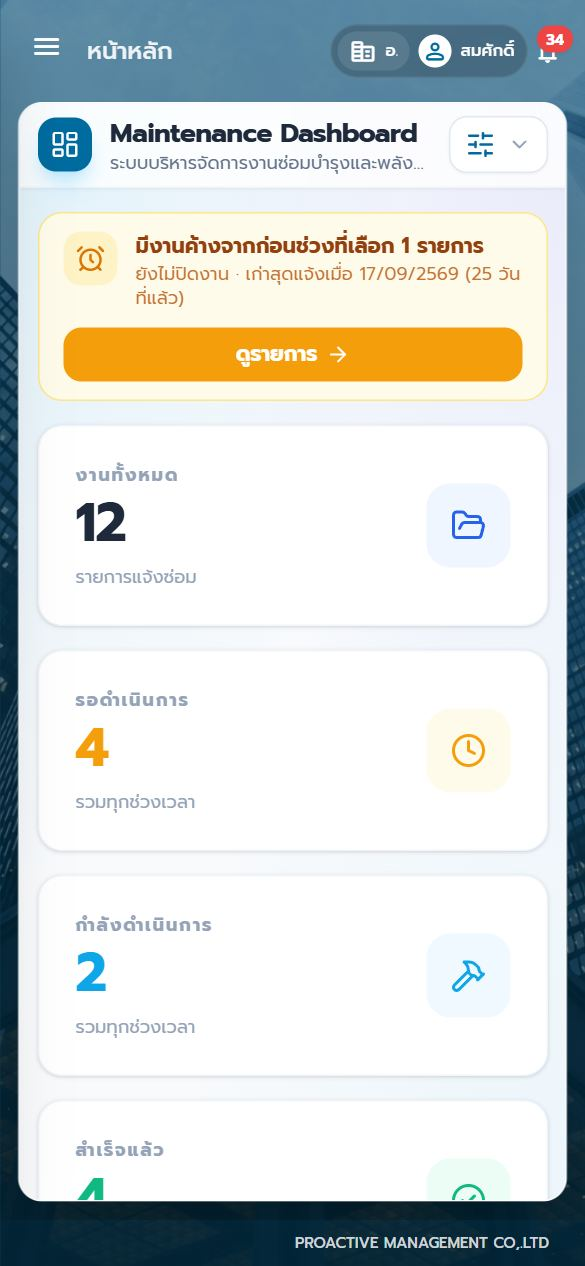
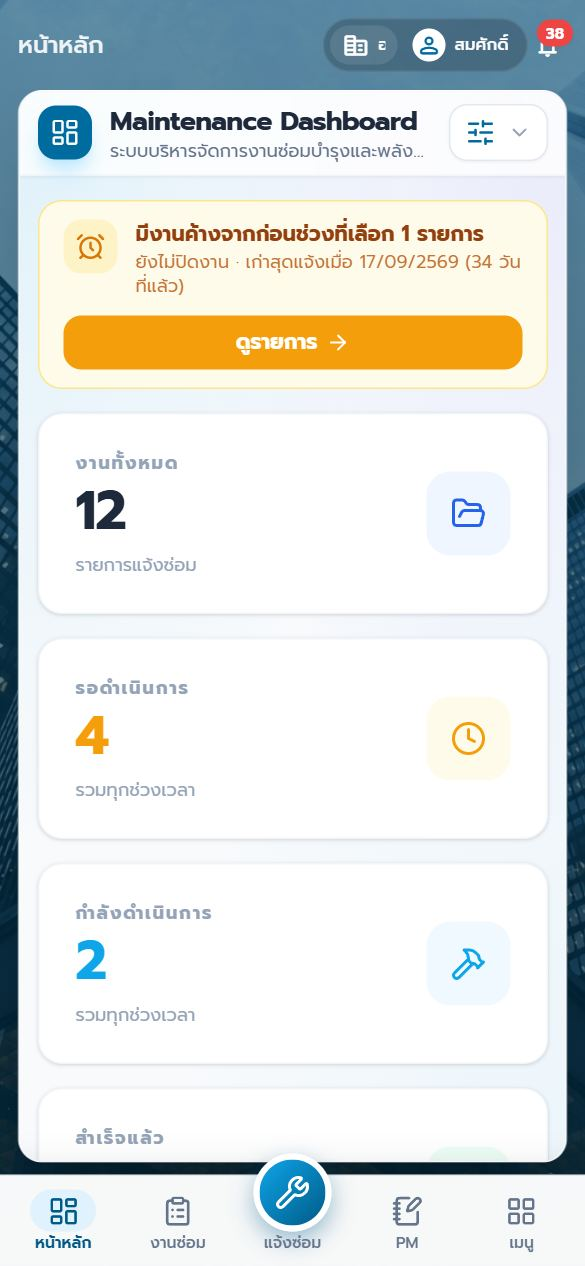
ปรับคู่มือรู้จักหน้าจอหลัก

diff --git a/tutorial.php b/tutorial.php
@@ -207,18 +207,22 @@ const MODULES = [
         intro: 'หน้าจอของระบบแบ่งเป็น 2 ส่วน คือ <b>เมนูด้านซ้าย</b> สำหรับเลือกงาน และ <b>พื้นที่ทำงานด้านขวา</b> ที่จะเปลี่ยนไปตามเมนูที่เลือก',
         parts: [{ shot: 'main', steps: [
             { m: 1, t: '<b>เมนูหลัก</b> — กดเพื่อเปิดหน้าการทำงาน เมนูที่เห็นจะขึ้นกับสิทธิ์ของแต่ละคน ถ้าไม่เห็นเมนูที่ต้องใช้ ให้ติดต่อผู้ดูแลระบบ (ทุกคนมีเมนู <b>ตั้งค่าการแสดงผล</b> และ <b>คู่มือการใช้งาน</b>)' },
-            { m: 2, t: '<b>ย่อ / ขยายเมนู</b> — ย่อเมนูให้เหลือแต่ไอคอน เพื่อให้พื้นที่ทำงานกว้างขึ้น บนมือถือให้กดปุ่ม <span class="kbd">☰</span> มุมซ้ายบนเพื่อเปิดเมนู' },
+            { m: 2, t: '<b>ย่อ / ขยายเมนู</b> — ย่อเมนูให้เหลือแต่ไอคอน เพื่อให้พื้นที่ทำงานกว้างขึ้น (บนมือถือ / แท็บเล็ตใช้แถบเมนูด้านล่างแทน ดูหัวข้อถัดไป)' },
             { m: 3, t: '<b>หน่วยงาน</b> — ชื่อหน่วยงาน/โครงการที่กำลังใช้งาน ข้อมูลทุกหน้าจะเป็นของหน่วยงานนี้' },
             { m: 4, t: '<b>ชื่อผู้ใช้</b> — ชื่อบัญชีที่เข้าสู่ระบบอยู่' },
             { m: 5, t: '<b>การแจ้งเตือน</b> — ตัวเลขสีแดงคือรายการที่ยังไม่อ่าน (เช่น งาน PM ที่ถึงกำหนด) กดเพื่อดูรายการล่าสุด' },
             { m: 6, t: '<b>ออกจากระบบ</b> — กดทุกครั้งเมื่อใช้เครื่องร่วมกับผู้อื่น' }
         ] },
-        { title: 'บนมือถือ', shot: 'main_m', steps: [
-            { m: 1, t: 'กด <span class="kbd">☰</span> เพื่อเปิดเมนู — เลือกเมนูแล้วแผงเมนูจะปิดเอง ปุ่ม <b>ออกจากระบบ</b> อยู่ท้ายเมนู' },
-            { m: 2, t: '<b>หน่วยงาน</b> — ย่อเหลือตัวย่อ กดเพื่อดูหรือเปลี่ยนหน่วยงาน ถัดไปคือชื่อผู้ใช้' },
-            { m: 3, t: '<b>การแจ้งเตือน</b> — เหมือนบนคอมพิวเตอร์' }
+        { title: 'บนมือถือ / แท็บเล็ต: แถบเมนูด้านล่าง', shot: 'main_m', steps: [
+            { m: 1, t: '<b>หน้าหลัก</b> — กลับหน้า Dashboard (ปุ่มของหน้าที่เปิดอยู่จะเป็นสีฟ้า)' },
+            { m: 2, t: '<b>งานซ่อม</b> — เปิดหน้า <b>ข้อมูลแจ้งซ่อม</b> ดูและติดตามรายการแจ้งซ่อม' },
+            { m: 3, t: '<b>แจ้งซ่อม</b> (ปุ่มกลมตรงกลาง) — ปุ่มลัดแจ้งซ่อมใหม่ กดได้ทันทีจากทุกหน้า' },
+            { m: 4, t: '<b>PM</b> — เปิดหน้า <b>วางแผน PM</b> ดูงานที่ต้องทำและบันทึกผลตรวจ' },
+            { m: 5, t: '<b>เมนู</b> — เปิดเมนูอื่นทั้งหมด (ประวัติงานช่าง มิเตอร์ เครื่องจักร สต็อก การแสดงผล คู่มือ ฯลฯ) รวมถึงปุ่ม <b>เปลี่ยนรหัสผ่าน</b> และ <b>ออกจากระบบ</b> — แตะพื้นที่ด้านบนหรือกด ✕ เพื่อปิด' },
+            { m: 6, t: '<b>หน่วยงาน</b> — ย่อเหลือตัวย่อ กดเพื่อดูหรือเปลี่ยนหน่วยงาน ถัดไปคือชื่อผู้ใช้' },
+            { m: 7, t: '<b>การแจ้งเตือน</b> — เหมือนบนคอมพิวเตอร์' }
         ] }],
-        tips: ['ระบบใช้งานได้ทั้งคอมพิวเตอร์ แท็บเล็ต และมือถือ หน้าจอจะปรับตามขนาดให้อัตโนมัติ']
+        tips: ['ระบบใช้งานได้ทั้งคอมพิวเตอร์ แท็บเล็ต และมือถือ หน้าจอจะปรับตามขนาดให้อัตโนมัติ', 'ปุ่มบนแถบด้านล่างขึ้นกับสิทธิ์ของแต่ละคน — ถ้าไม่มีสิทธิ์เมนูไหน ระบบจะแสดงเมนูถัดไปแทน (เช่น ประวัติงานช่าง)', 'แถบด้านล่างจะซ่อนเองระหว่างพิมพ์ (คีย์บอร์ดเปิด) และกลับมาเมื่อพิมพ์เสร็จ']
     },
     {
         id: 'qr_login', title: 'เข้าสู่ระบบด้วย QR Code (สแกนด้วยมือถือ)', perm: null,
@@ -1277,7 +1281,7 @@ const FAQ = [
     ['ทั่วไป', 'ลืมรหัสผ่าน', 'ติดต่อผู้ดูแลระบบให้กดคืนค่ารหัสผ่านตั้งต้น (ปุ่ม ↺ ในหน้าตั้งค่าผู้ใช้งาน) รหัสผ่านจะเป็น 4123 — เข้าสู่ระบบแล้วเปลี่ยนรหัสผ่านใหม่ทันที', 'change_password'],
     ['ทั่วไป', 'เพิ่มหรือแก้ชื่อคลังสินค้า / ตึก ทำที่ไหน', 'เมนู ตั้งค่าข้อมูล → อะไหล่และวัสดุ → คลังสินค้า / ตึก (สำหรับผู้ดูแลระบบ) — คลังที่ไม่ใช้แล้วให้เอาติ๊ก Active ออก', 'settings_other'],
     ['ทั่วไป', 'เข้าสู่ระบบไม่ได้ ขึ้นว่าหน่วยงานหมดสัญญาแล้ว', 'เลยวันสิ้นสุดสัญญาของหน่วยงานแล้ว ผู้ใช้ในหน่วยงานนั้นจึงเข้าสู่ระบบไม่ได้ (วันสิ้นสุดสัญญายังใช้ได้ทั้งวัน) — ติดต่อผู้ดูแลระบบเพื่อต่อสัญญา ถ้าบัญชีอยู่หลายหน่วยงาน จะเข้าได้เฉพาะหน่วยงานที่ยังไม่หมดสัญญา', null],
-    ['ทั่วไป', 'บนมือถือหาเมนูไม่เจอ', 'กดปุ่ม ☰ มุมซ้ายบนของจอ', 'main'],
+    ['ทั่วไป', 'บนมือถือ / แท็บเล็ตหาเมนูไม่เจอ', 'เมนูหลักอยู่ที่แถบด้านล่างของจอ ส่วนเมนูอื่นทั้งหมด (รวมถึงออกจากระบบ) กดปุ่ม เมนู ที่มุมขวาล่าง', 'main'],
     ['ทั่วไป', 'ตัวอักษรเล็ก (หรือใหญ่) เกินไป', 'เลือกขนาดตัวอักษรที่เมนู "ตั้งค่าการแสดงผล" มีผลทันทีกับทุกหน้า และจำไว้ในเครื่องนั้น', 'display_settings'],
     ['ทั่วไป', 'ส่งออกข้อมูลในตารางเป็น Excel ทำอย่างไร', 'กดปุ่ม "ส่งออก Excel" สีเขียวเหนือตาราง (หน้าข้อมูลแจ้งซ่อม ข้อมูลเครื่องจักร มิเตอร์ และสต๊อก) หรือคลิกขวาที่ตารางแล้วเลือก Excel Export — ใช้บนคอมพิวเตอร์/แท็บเล็ต', 'repair_list'],
     ['ทั่วไป', 'ข้อมูลไม่อัปเดต', 'กดปุ่มรีเฟรช/โหลดใหม่ของหน้านั้น หรือเลือกเมนูเดิมอีกครั้ง', null],
